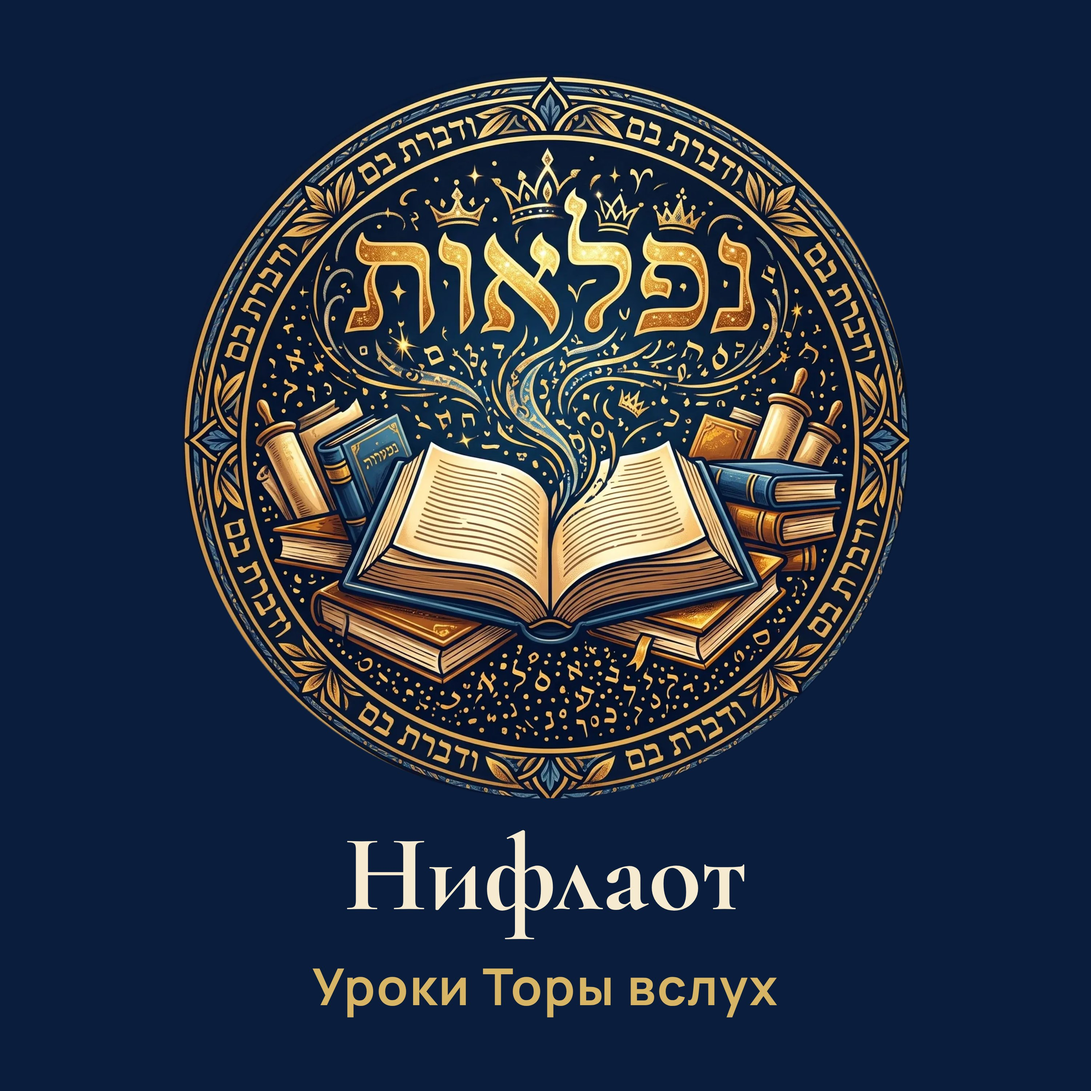
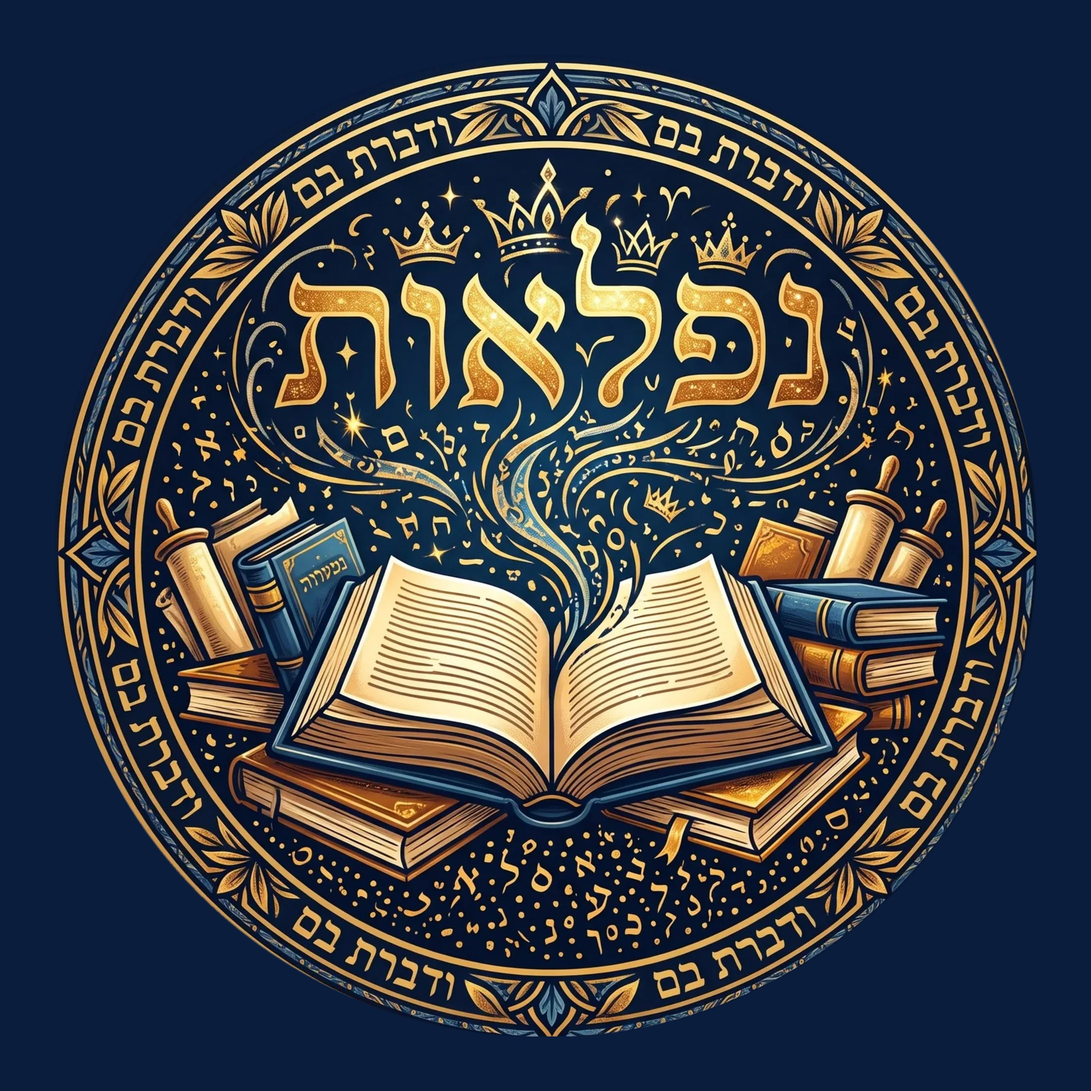
Обложки подкаста — только печать, без подписи
Сайт многоязычный: на обложках ru/en/de больше нет «Нифлаот — Уроки Торы вслух», одна и та же печать «נפלאות».

Claude-Session: https://claude.ai/code/session_01QUacuGcaje6dr24BNx2yL1

diff --git a/scripts/og-images.ts b/scripts/og-images.ts
@@ -244,19 +244,16 @@ for (const [name, size, inset] of [
   console.log(`public/icons/${name}.png`);
 }
 
-/* podcast covers: the seal on its night-blue, the podcast's name under it — square, 3000 px */
-const COVER_SUB = { ru: 'Уроки Торы вслух', en: 'Torah lessons aloud', de: 'Tora-Lektionen zum Hören' } as const;
-const cover = (lang: keyof typeof COVER_SUB) => `<!doctype html><html><head><meta charset="utf-8">
-<link rel="stylesheet" href="https://fonts.googleapis.com/css2?family=Cormorant+Garamond:wght@700&family=Manrope:wght@700&display=block">
-<style>*{margin:0;box-sizing:border-box}body{width:3000px;height:3000px;background:${NAVY};position:relative;overflow:hidden;display:flex;flex-direction:column;align-items:center;justify-content:center;gap:60px}
-img{width:2000px;height:2000px}
-.t{font-family:"Cormorant Garamond";font-weight:700;font-size:300px;line-height:1;color:#F6EBD0}
-.s{font-family:Manrope;font-weight:700;font-size:140px;color:#D8B565;letter-spacing:4px;text-align:center}</style>
-</head><body><img src="${LOGO_BIG}" alt=""><div class="t">${lang === 'ru' ? 'Нифлаот' : 'Niflaot'}</div><div class="s">${COVER_SUB[lang]}</div></body></html>`;
+/* podcast covers: only the seal on its night-blue — no words, the site speaks several languages (owner, 28.10.2026);
+   one picture, saved for each feed (ru, en, de) — square, 3000 px */
+const cover = () => `<!doctype html><html><head><meta charset="utf-8">
+<style>*{margin:0}body{width:3000px;height:3000px;background:${NAVY};display:flex;align-items:center;justify-content:center;overflow:hidden}
+img{width:2700px;height:2700px}</style>
+</head><body><img src="${LOGO_BIG}" alt=""></body></html>`;
 mkdirSync('public/podcast', { recursive: true });
 await p.setViewportSize({ width: 3000, height: 3000 });
 for (const lang of ['ru', 'en', 'de'] as const) {
-  await p.setContent(cover(lang), { waitUntil: 'networkidle' });
+  await p.setContent(cover(), { waitUntil: 'networkidle' });
   await p.evaluate(() => document.fonts.ready);
   await p.screenshot({ path: `public/podcast/cover-${lang}.jpg`, type: 'jpeg', quality: 86 });
   console.log(`public/podcast/cover-${lang}.jpg`);
